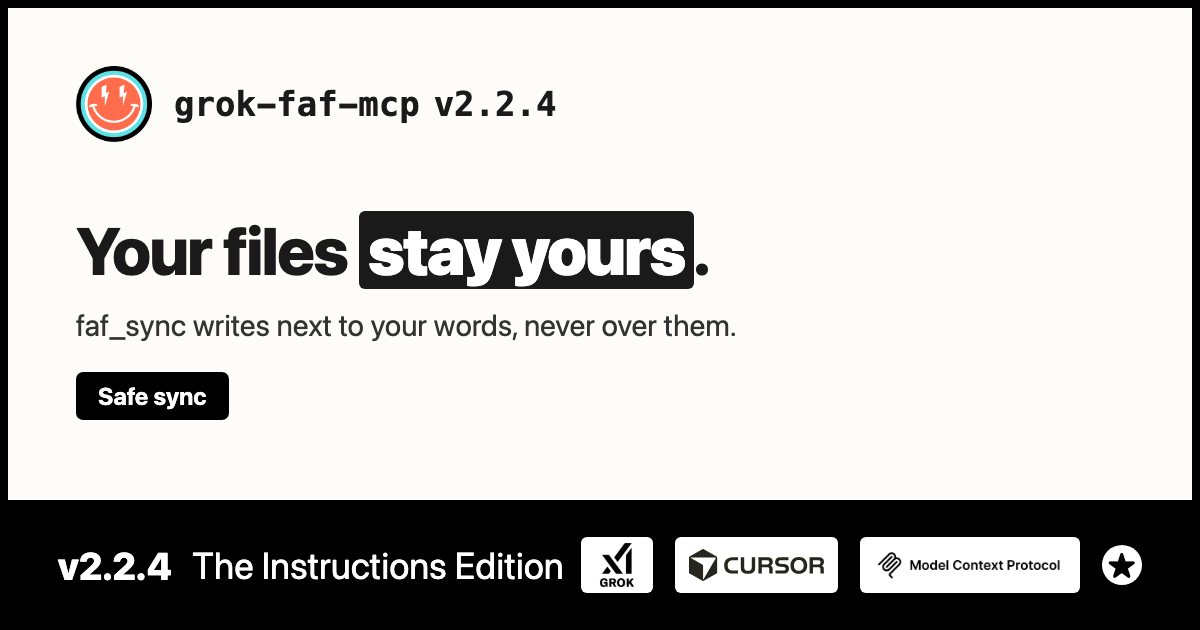
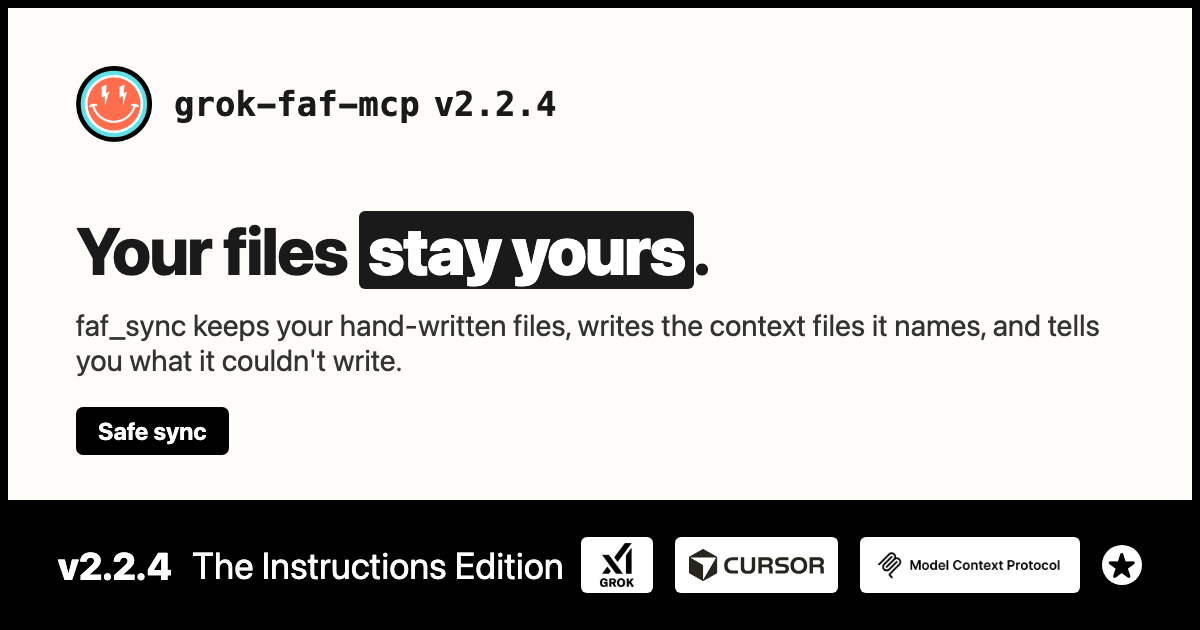
fix: Name only the files faf_sync writes
- Share text, subtitle and Why it matters named AGENTS.md; faf_sync writes
  CLAUDE.md, .cursorrules, .windsurfrules and .clinerules (review by Grok Build)
- Drop the footer emoji
- Card sub is the changelog sentence; Writer line names no function

Changed region(s): [[0.0617, 0.4825, 0.925, 0.7238]]

diff --git a/src/routes/blog/your-files-stay-yours/+page.svelte b/src/routes/blog/your-files-stay-yours/+page.svelte
@@ -4,7 +4,7 @@
 
 	const shareText = `🏁 Just shipped: grok-faf-mcp v2.2.4 — The Instructions Edition
 
-Your AGENTS.md is yours. faf_sync writes next to it, never over it.
+Your CLAUDE.md is yours. faf_sync writes next to it, never over it.
 
 Hand-written files kept · refused files named · same writer as faf-cli
 
@@ -62,8 +62,8 @@ Comments · suggestions · shares welcome.`;
 		<h1>Your files stay yours</h1>
 		<p class="version-tag">grok-faf-mcp v2.2.4 · The Instructions Edition</p>
 		<p class="subtitle">
-			Your AGENTS.md, CLAUDE.md and .cursorrules hold your team's rules. faf now writes next to them,
-			never over them.
+			Your CLAUDE.md and .cursorrules hold your team's rules. faf now writes next to them, never over
+			them.
 		</p>
 		<div class="meta">
 			<time datetime="2026-11-05">November 5, 2026</time>
@@ -136,7 +136,7 @@ Comments · suggestions · shares welcome.`;
 		<section>
 			<h2>Why it matters if you use Grok or Cursor</h2>
 			<p>
-				Your <code>AGENTS.md</code>, <code>CLAUDE.md</code> and <code>.cursorrules</code> are where
+				Your <code>CLAUDE.md</code>, <code>.cursorrules</code> and <code>.windsurfrules</code> are where
 				your team writes down how the project works: never deploy on Friday, which tests to run, what
 				not to touch. A context tool that can wipe those is worse than no context tool at all.
 			</p>
@@ -281,7 +281,7 @@ Comments · suggestions · shares welcome.`;
 			<ul>
 				<li><strong>Version:</strong> grok-faf-mcp 2.2.4 (November 5, 2026), The Instructions Edition</li>
 				<li><strong>Where:</strong> npm · Homebrew · the MCP Registry</li>
-				<li><strong>Writer:</strong> faf-cli's <code>injectFafBlock</code> (faf-cli ^8.5.0)</li>
+				<li><strong>Writer:</strong> faf-cli's own (faf-cli ^8.5.0)</li>
 				<li>
 					<strong>Changes:</strong>
 					<a href="https://github.com/Wolfe-Jam/grok-faf-mcp/pull/186" target="_blank" rel="noopener">#186</a>
@@ -314,7 +314,7 @@ Comments · suggestions · shares welcome.`;
 		</section>
 
 		<section class="footer-note">
-			<p>Built with .faf ☑ faf writes next to your words, never over them. 🏎</p>
+			<p>Built with .faf ☑ faf writes next to your words, never over them.</p>
 		</section>
 	</article>
 </div>
